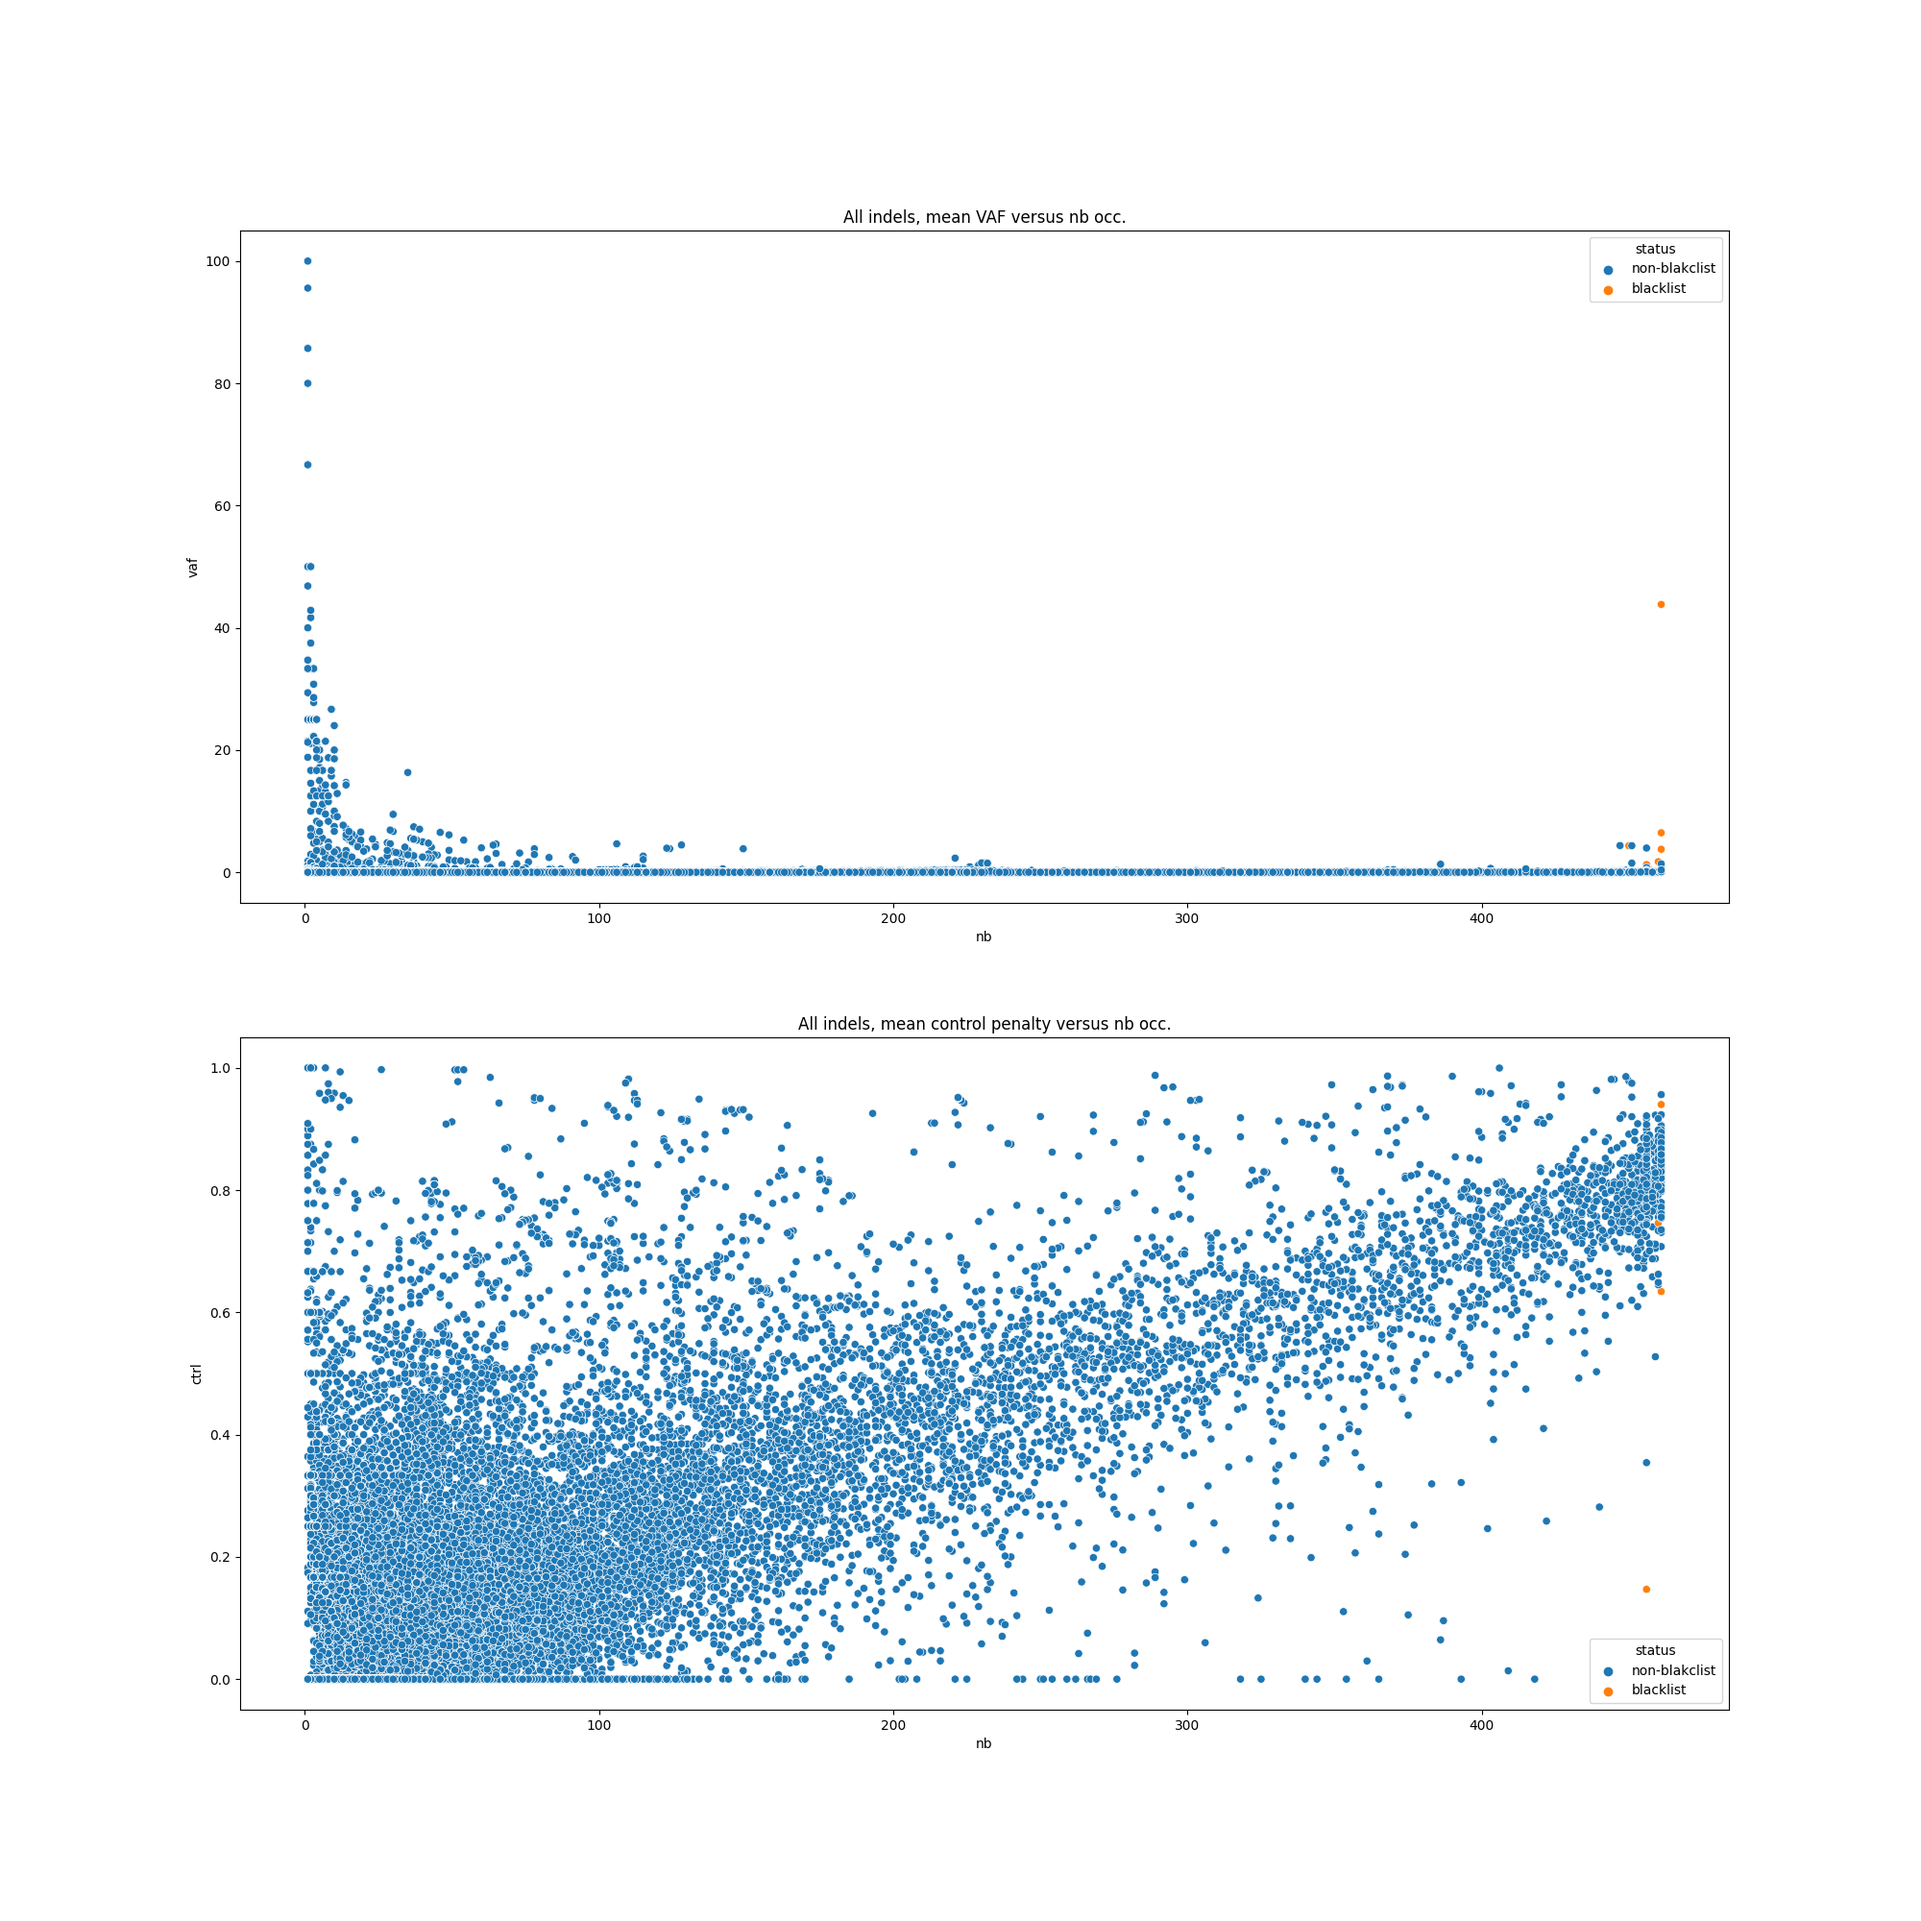
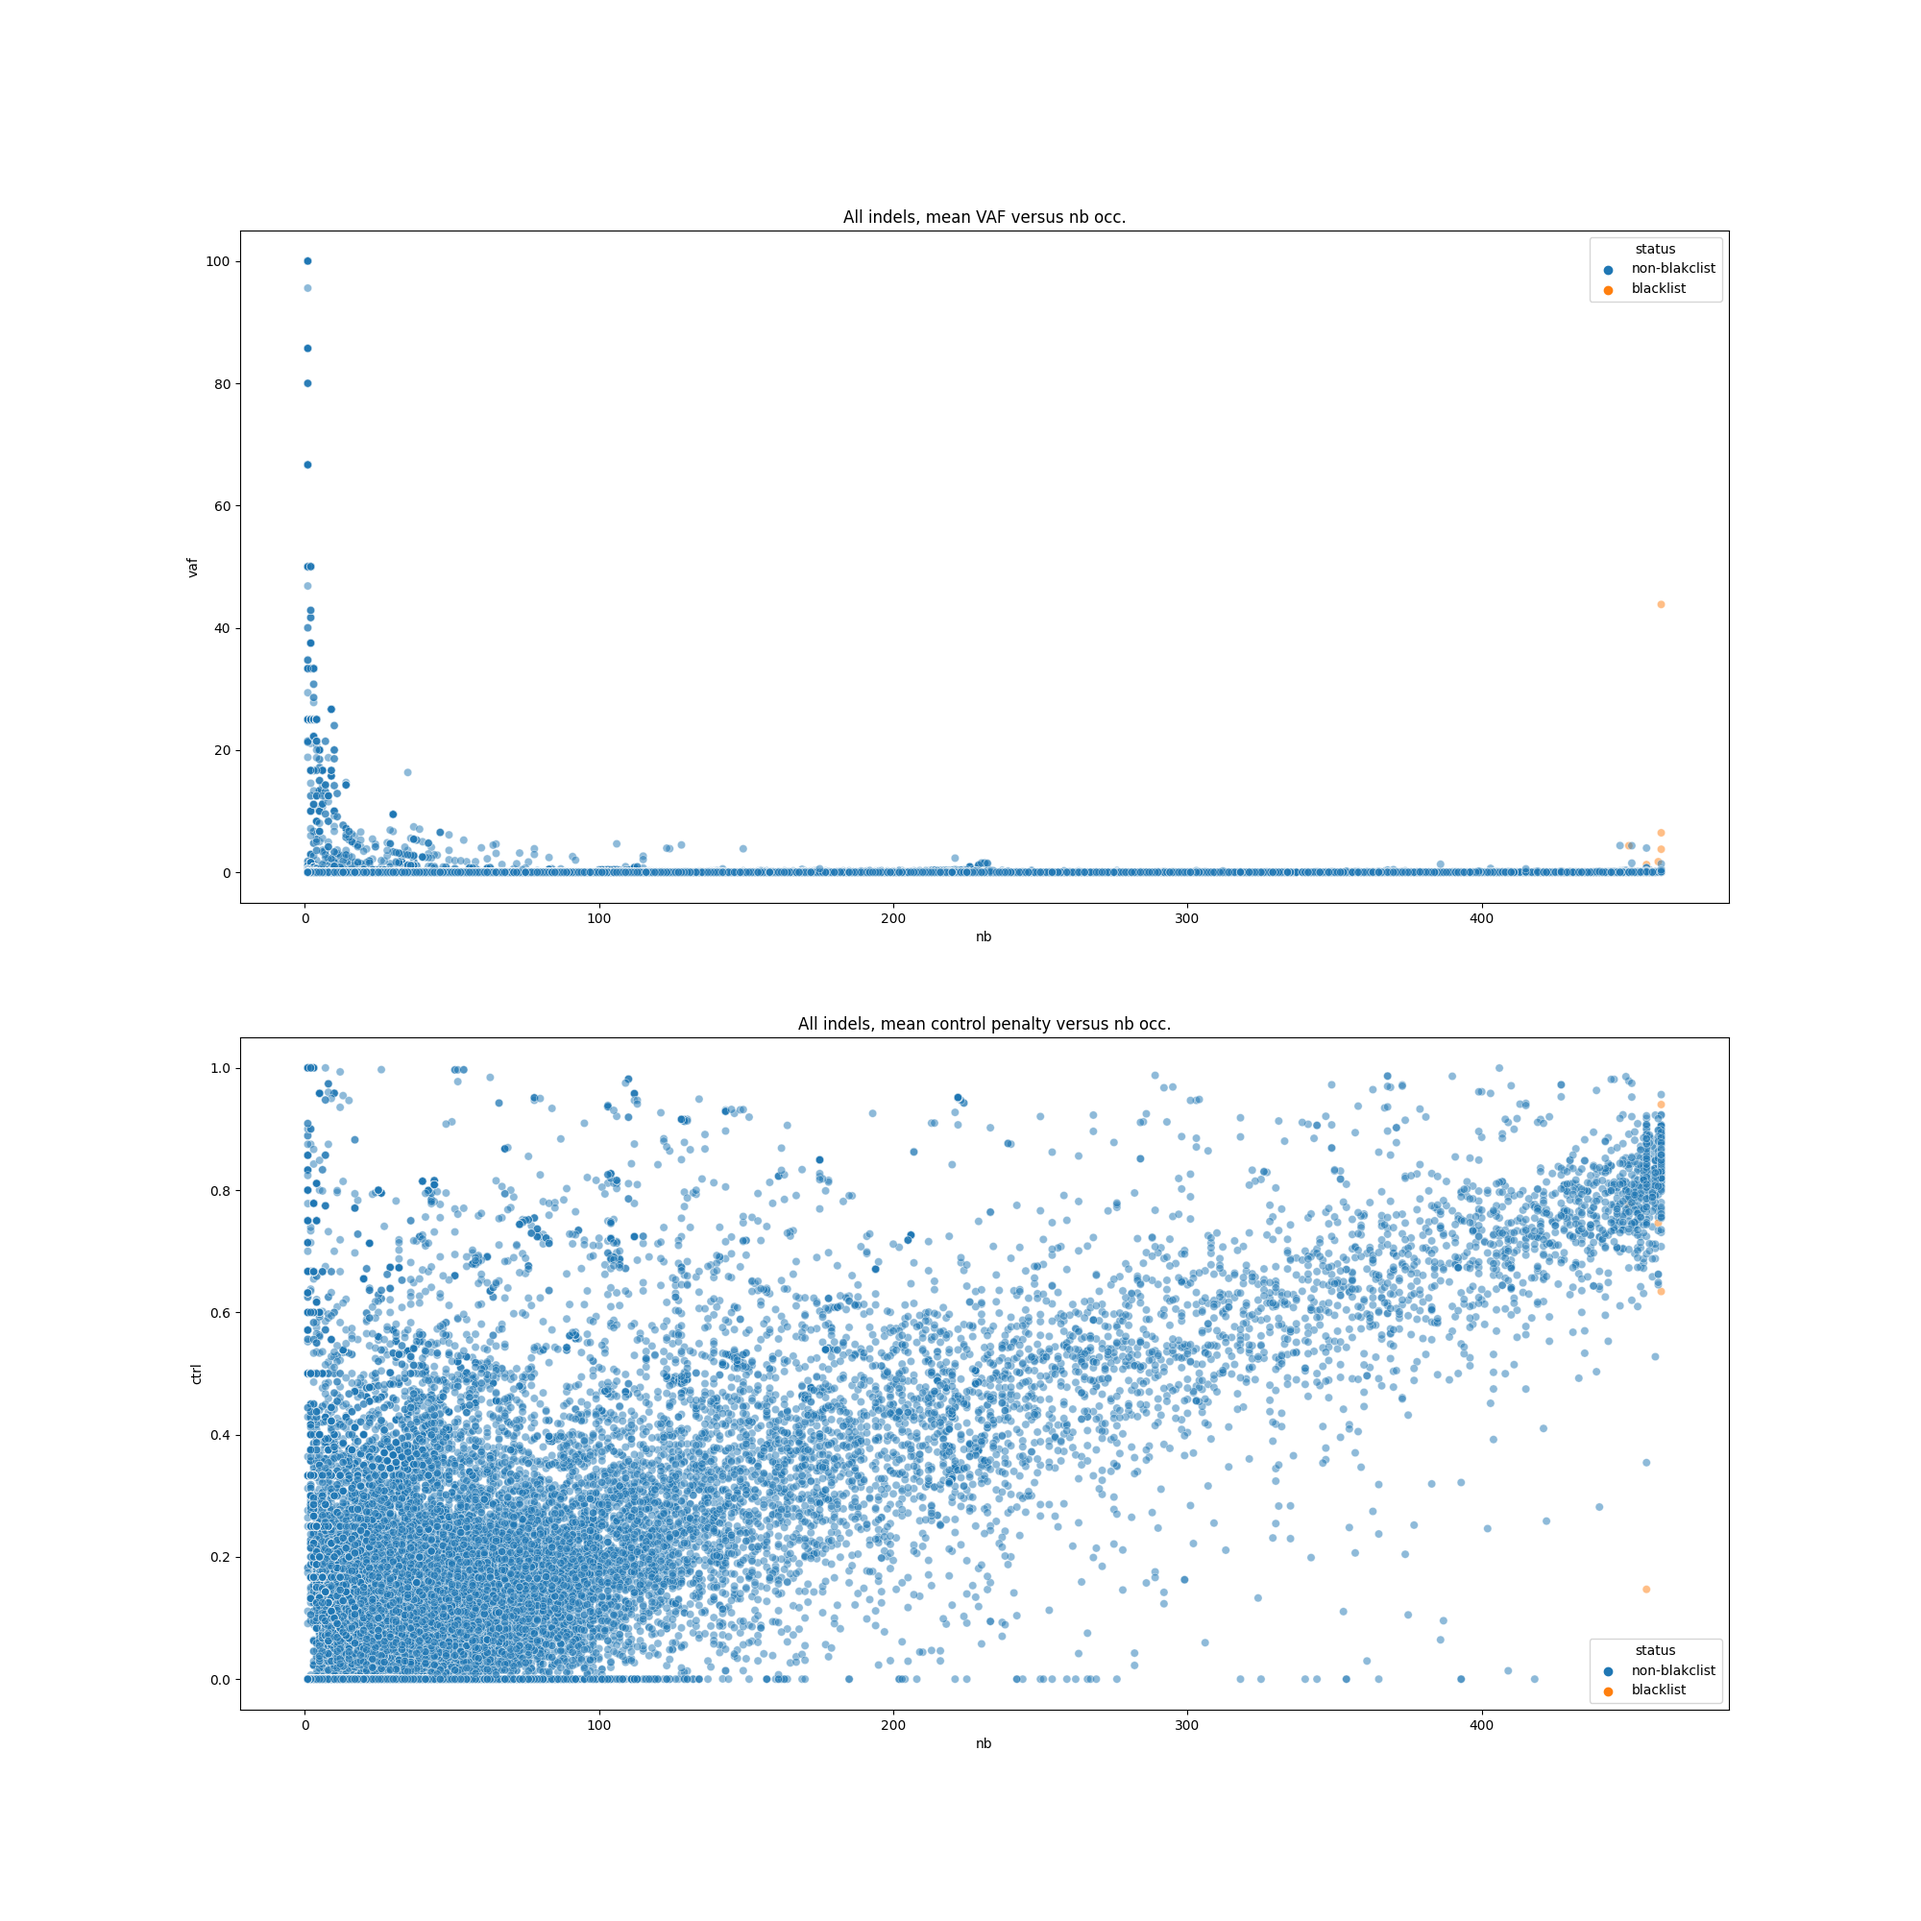
additional figure

diff --git a/bin/check_indels.py b/bin/check_indels.py
@@ -200,18 +200,23 @@ if __name__ == "__main__":
     # and mean control penalty, recording multiplicity of all indels
     NB_OCC = defaultdict(int)
     NB_COL, VAF_COL, CTRL_COL, STATUS_COL = 'nb', 'vaf', 'ctrl', 'status'
+    SUPP_COL, OV_COL, COMP_COL = 'support', 'overlap', 'complexity'
     INDELS_GROUPS_DICT = {}
     for indel, indel_df in INDELS_GROUPS:
         nb_indels = len(list(indel_df.index))
         mean_vaf = indel_df[VAF].mean()
         mean_ctrl = indel_df[CONTROL].mean()
+        mean_supp = indel_df[SUPPORT].mean()
+        mean_ov = indel_df[OVERLAP].mean()
+        mean_comp = indel_df[COMPLEXITY].mean()
         if indel in checked_indels_list:
             status = 'blacklist'
         else:
             status = 'non-blakclist'
         INDELS_GROUPS_DICT[indel] = {
             NB_COL: nb_indels, VAF_COL: mean_vaf,
-            CTRL_COL: mean_ctrl, STATUS_COL: status
+            CTRL_COL: mean_ctrl, STATUS_COL: status,
+            SUPP_COL: mean_supp, OV_COL: mean_ov, COMP_COL: mean_comp
         }
         NB_OCC[nb_indels] += 1
     OCC_KEYS = list(NB_OCC.keys())
@@ -225,19 +230,40 @@ if __name__ == "__main__":
     INDELS_GROUPS_DF = pd.DataFrame.from_dict(
         INDELS_GROUPS_DICT,
         orient='index',
-        columns=[NB_COL, VAF_COL, CTRL_COL, STATUS_COL]
+        columns=[NB_COL, VAF_COL, CTRL_COL, STATUS_COL, SUPP_COL, OV_COL, COMP_COL]
     )
     fig, axes = plt.subplots(nrows=2, ncols=1, figsize=(20, 20))
     vaf_plot = sns.scatterplot(
         data=INDELS_GROUPS_DF,
         x=NB_COL, y=VAF_COL, hue=STATUS_COL,
-        ax=axes[0]
+        ax=axes[0], alpha=0.5
     )
     vaf_plot = sns.scatterplot(
         data=INDELS_GROUPS_DF,
         x=NB_COL, y=CTRL_COL, hue=STATUS_COL,
-        ax=axes[1]
+        ax=axes[1], alpha=0.5
     )
     axes[0].set_title(f"All indels, mean VAF versus nb occ.")
     axes[1].set_title(f"All indels, mean control penalty versus nb occ.")
-plt.savefig(f"{out_pref}_out_4.png")
+    plt.savefig(f"{out_pref}_out_4.png")
+
+    fig, axes = plt.subplots(nrows=3, ncols=1, figsize=(20, 30))
+    vaf_plot = sns.scatterplot(
+        data=INDELS_GROUPS_DF,
+        x=NB_COL, y=SUPP_COL, hue=STATUS_COL,
+        ax=axes[0], alpha=0.5
+    )
+    vaf_plot = sns.scatterplot(
+        data=INDELS_GROUPS_DF,
+        x=NB_COL, y=OV_COL, hue=STATUS_COL,
+        ax=axes[1], alpha=0.5
+    )
+    vaf_plot = sns.scatterplot(
+        data=INDELS_GROUPS_DF,
+        x=NB_COL, y=COMP_COL, hue=STATUS_COL,
+        ax=axes[2], alpha=0.5
+    )
+    axes[0].set_title(f"All indels, mean support penalty versus nb occ.")
+    axes[1].set_title(f"All indels, mean overlap penalty versus nb occ.")
+    axes[2].set_title(f"All indels, mean complexity penalty versus nb occ.")
+    plt.savefig(f"{out_pref}_out_5.png")
